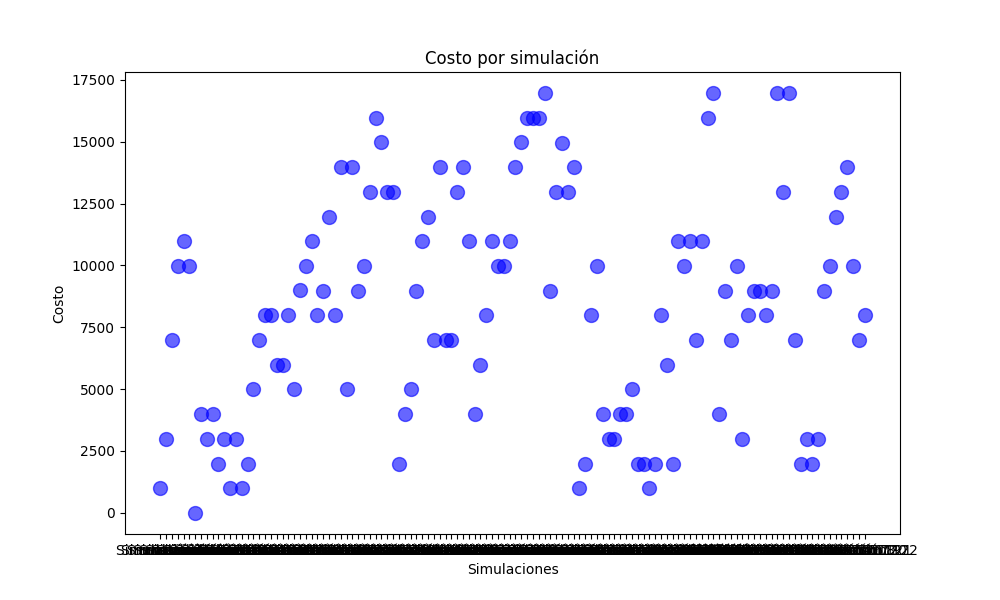
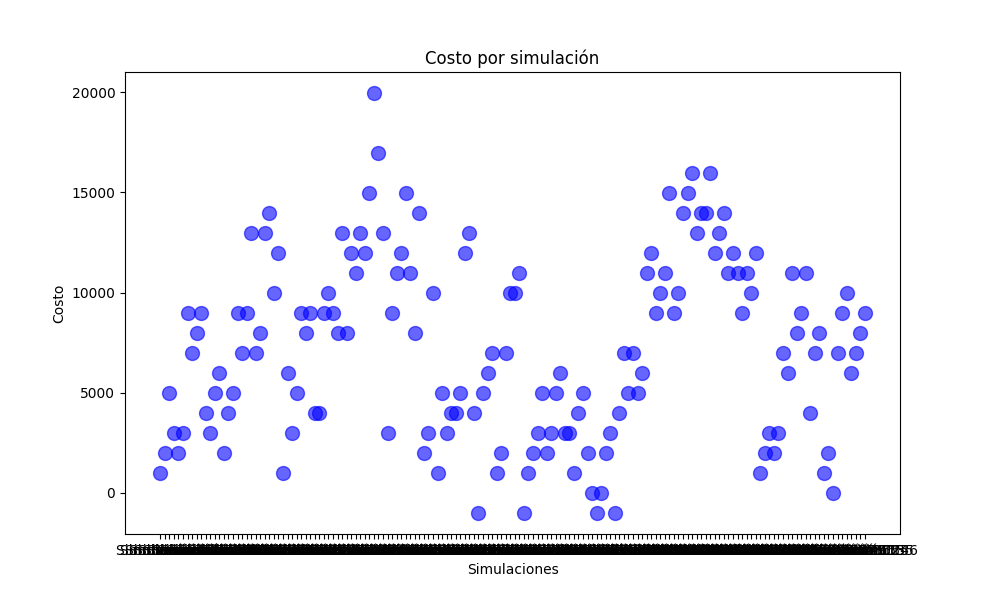
feat-single-simulations

diff --git a/app/myapp/views/simulation.py b/app/myapp/views/simulation.py
@@ -13,7 +13,8 @@ from ..modules.module_1.module_1 import plan_route
 
 def run_simulate(request):
 
-    verbose = True
+    little = True
+    verbose = False
 
     with open('./myapp/utils/tourists_data.json', 'r') as file:
         tourists = json.load(file)
@@ -34,15 +35,8 @@ def run_simulate(request):
 
     map = Mapa(points, edges_size, edges=edges)
 
-    
     simulate = Simulation()
 
-    camp_points_data = []
-    reagroup_points_data = []
-    launch_points_data = []
-    costs_data = []
-    routes_data = []
-    
     temperature = 1000
     cooling_rate = 0.99
     std_threshold = 0.05
@@ -51,8 +45,9 @@ def run_simulate(request):
     best_solution = []
     best_cost = None
     cost = None
-    route=[]
     cost_history = []
+    routes_data = []
+    route=[]
 
     precomputed_data = precompute_excursion_data(desires, map)
     
@@ -61,7 +56,7 @@ def run_simulate(request):
 
         route, temperature, best_solution, best_cost = plan_route(map_data, temperature, cooling_rate, best_solution, best_cost, route, cost)   
 
-        if verbose:
+        if little or verbose:
             print("#############################################################################")
             print("#############################################################################")
             print(f'                    COMIENZA LA SIMULACION {count}')
@@ -73,13 +68,9 @@ def run_simulate(request):
         cost = cost[0][0]
         cost_history.append(cost)
         
-        if verbose:
+        if little or verbose:
             print(f'Costo: {cost}')
 
-        camp_points_data.append(camp_points)
-        reagroup_points_data.append(reagroup_points)
-        launch_points_data.append(launch_points)
-        costs_data.append(cost)
         routes_data.append(route)
 
         count += 1
@@ -91,9 +82,49 @@ def run_simulate(request):
             mean_cost = statistics.mean(cost_history)
             if adjusted_std_dev < std_threshold * mean_cost:
                 break
+    
+    
+    calculate_statistics3(routes_data, filename="routes_stats.png")
+    calculate_statistics2(cost_history, filename="costs_stats")
+    
+    cost_history = []
+    camp_points_data = []
+    reagroup_points_data = []
+    launch_points_data = []
+    count = 0
+    while True:
 
+        if little or verbose:
+            print("#############################################################################")
+            print("#############################################################################")
+            print(f'                    COMIENZA LA SIMULACION FINAL {count}')
+            print("#############################################################################")
+            print("#############################################################################")
+            print(f'Ruta: {route}')
+        
+        camp_points, reagroup_points,  launch_points, cost = simulate.simulate_excursion(desires, route, map, precomputed_data, verbose)
+        cost = cost[0][0]
+        cost_history.append(cost)
+        
+        if little or verbose:
+            print(f'Costo: {cost}')
 
-    if verbose:
+        camp_points_data.append(camp_points)
+        reagroup_points_data.append(reagroup_points)
+        launch_points_data.append(launch_points)
+        cost_history.append(cost)
+
+        count += 1
+        
+        # Verifica el criterio de parada si hay suficientes observaciones
+        if len(cost_history) >= min_observations:
+            std_dev = statistics.stdev(cost_history)
+            adjusted_std_dev = std_dev / math.sqrt(len(cost_history))
+            mean_cost = statistics.mean(cost_history)
+            if adjusted_std_dev < std_threshold * mean_cost:
+                break
+
+    if little or verbose:
         print("\n\n\n")
         print(f"Mejor solucion: {best_solution}")
         print(f"Mejor costo: {best_cost}")
@@ -105,8 +136,6 @@ def run_simulate(request):
     calculate_statistics(camp_points_data, filename="camp_stats")
     calculate_statistics(reagroup_points_data, filename="reagroup_stats")
     calculate_statistics(launch_points_data, filename="launch_stats")
-    calculate_statistics2(costs_data, filename="costs_stats")
-    calculate_statistics3(routes_data, filename="routes_stats.png")
 
     info = f"Mejor solucion: {best_solution}"
     return render(request, 'run_simulate.html', {'info': info})
